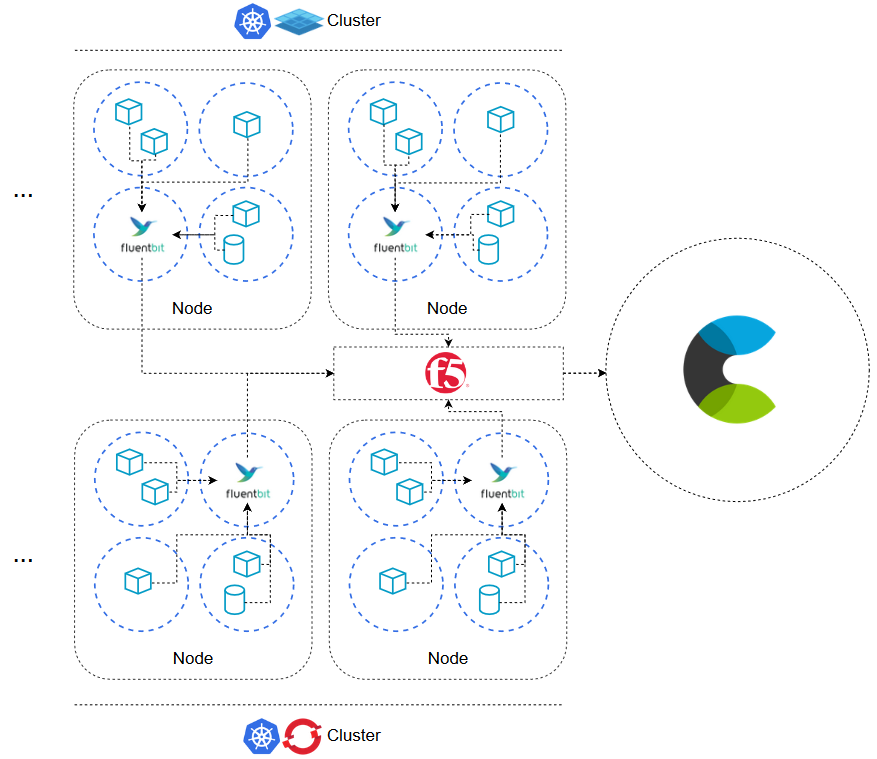
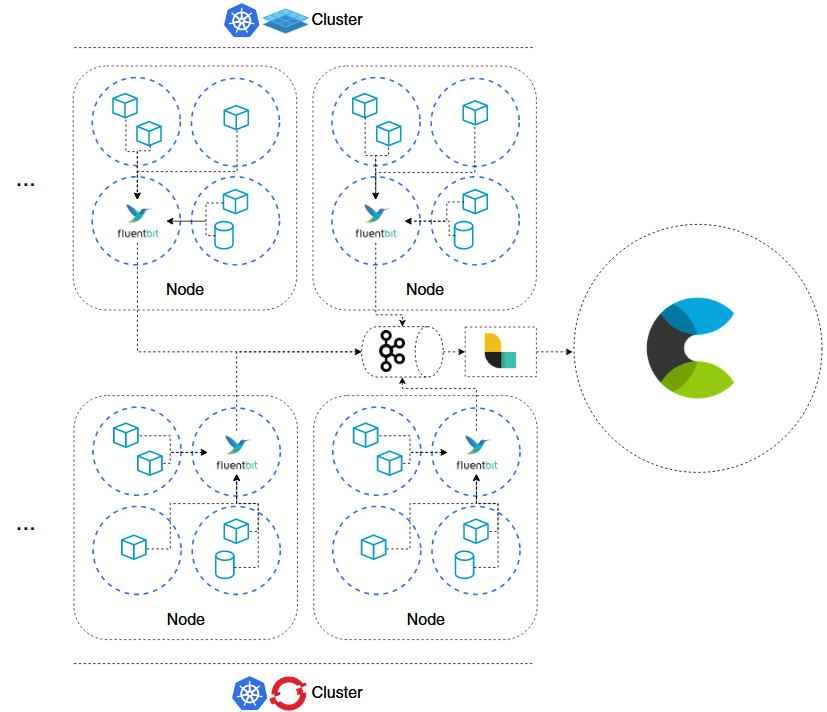
Update technical logging pipeline

diff --git a/README.md b/README.md
@@ -15,11 +15,12 @@
 
 ## Document historiek
 
-| Versie | Auteur               | Datum      | Commit                    |
-| ------ | -------------------- | ---------- | ------------------------- |
-| 1.0    | Quinten Scheppermans | 18/05/2020 | Release                   |
-| 1.1    | Quinten Scheppermans | 08/06/2020 | Aanpassingen logstructuur |
-| 1.2    | Quinten Scheppermans | 11/03/2021 | Sync ACPaaS ITD           |
+| Versie | Auteur               | Datum      | Commit                     |
+| ------ | -------------------- | ---------- | -------------------------- |
+| 1.0    | Quinten Scheppermans | 18/05/2020 | Release                    |
+| 1.1    | Quinten Scheppermans | 08/06/2020 | Aanpassingen logstructuur  |
+| 1.2    | Quinten Scheppermans | 11/03/2021 | Sync ACPaaS ITD            |
+| 1.3    | Quinten Scheppermans | 10/08/2021 | Technische pipeline update |
 
 ## Context
 
@@ -30,7 +31,7 @@ Het focust enkel op de meest recente manier van loggen, die automatisch van toep
 
 <img src="images/architectuur.png" width="75%" />
 
-Alle containers in onze **Openshift** Kubernetes clusters en via **Platform 9** opgezette Kubernetes clusters produceren logs naar **stdout**. Deze logs worden via de default Docker JSON file logging driver opgepikt door **[Fluentbit](https://fluentbit.io/)**. Fluentbit is als DaemonSet gedeployed. Dit wil zeggen dat elke fysieke node in de cluster een kopie van de Fluentbit pod runt. In de config van Fluentbit worden de logs gefilterd, geparset en dan weggeschreven via een friendly url. De **F5** vertaalt deze url in het onderliggende ECE endpoint voor de juiste omgeving.
+Alle containers in onze **Openshift** Kubernetes clusters en via **Platform 9** opgezette Kubernetes clusters produceren logs naar **stdout**. Deze logs worden via de default Docker JSON file logging driver opgepikt door **[Fluentbit](https://fluentbit.io/)**. Fluentbit is als DaemonSet gedeployed. Dit wil zeggen dat elke fysieke node in de cluster een kopie van de Fluentbit pod runt. In de config van Fluentbit worden de logs gefilterd, geparset en dan weggeschreven naar een **Kafka** topic. Kafka dient als buffer om zowel Fluentbit als ECE meer ademruimte te geven. De meer complexe logica wordt uit Fluentbit gehaald en in Logstash gestoken. **Logstash** haalt op zijn eigen tempo de logs uit Kafka en stuurt deze door naar de juiste index in **ECE**.
 
 ## Hoe moet mijn applicatie loggen [WIP]
 
